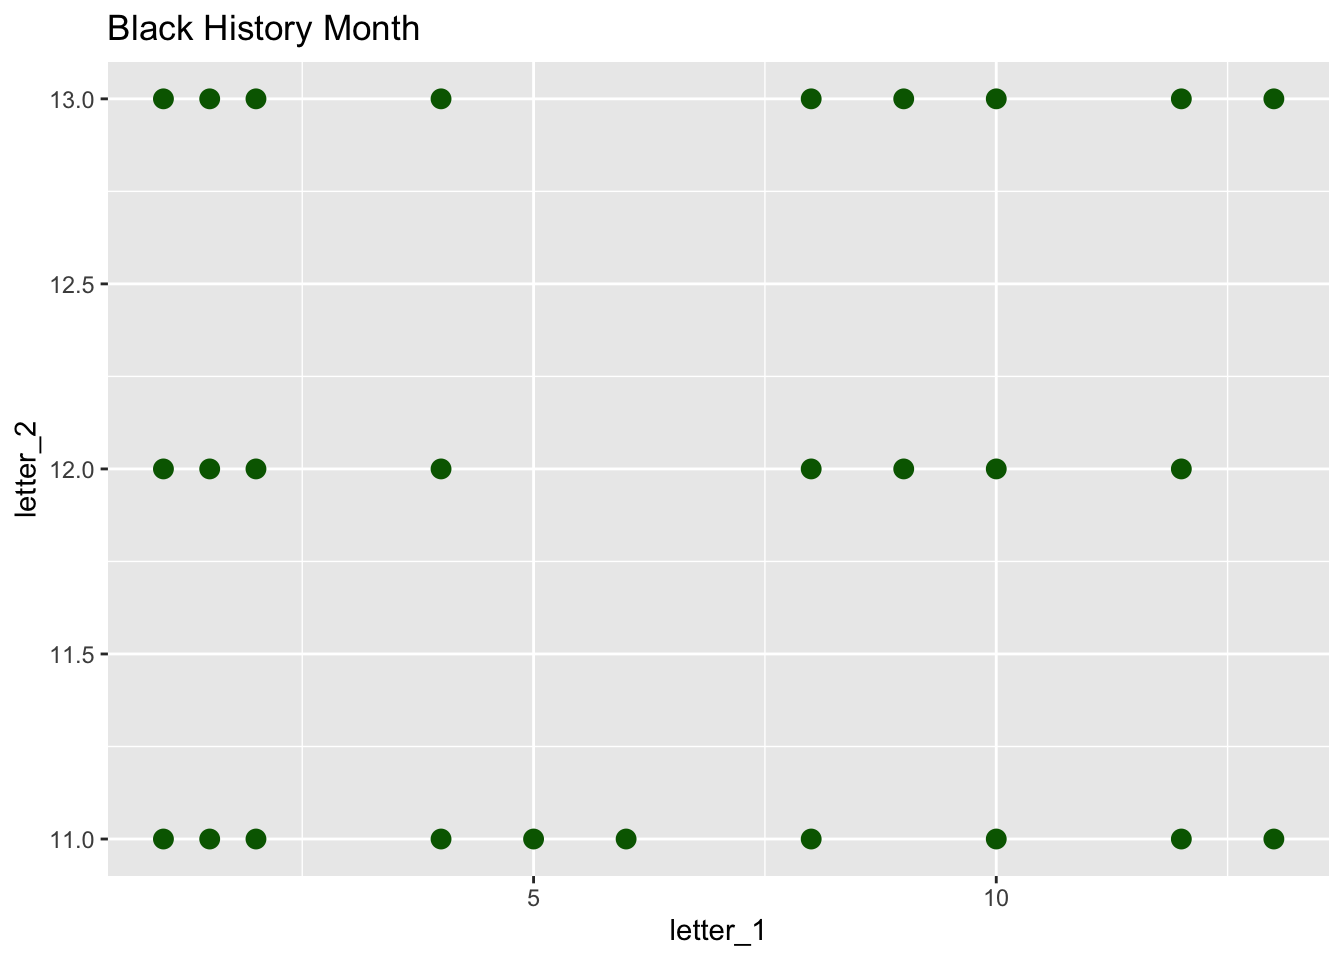
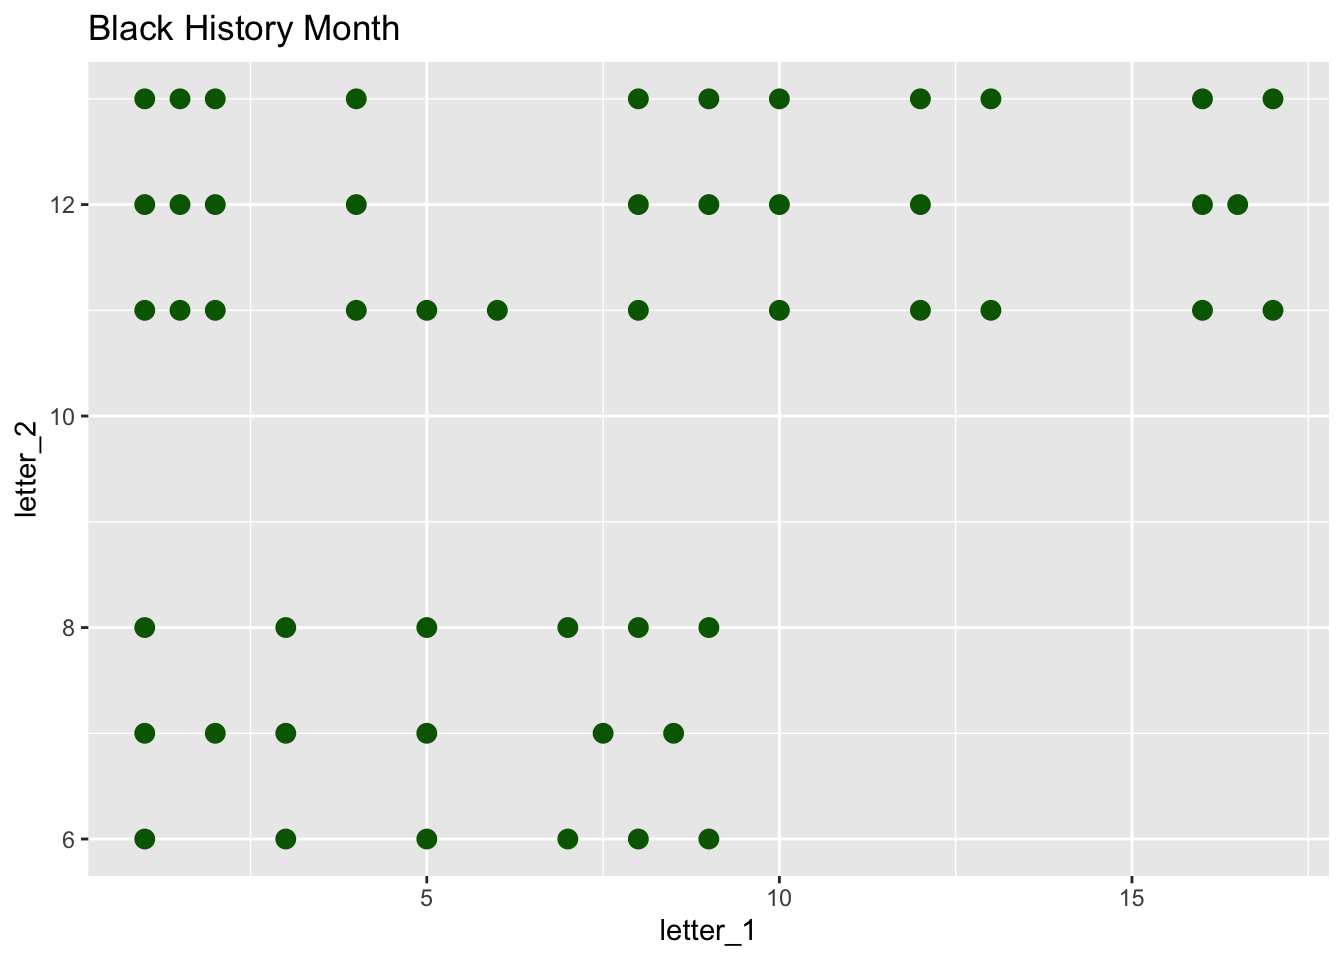
update 2

diff --git a/docs/p02.html b/docs/p02.html
@@ -304,8 +304,9 @@ and of high quality in terms of writing, grammar, presentation, etc.</p>
 </blockquote>
 <pre class="r"><code>library(ggplot2)</code></pre>
 <pre class="r"><code>black_historyp &lt;- data.frame(
-letter_1 = c(1,1,1,2,2,2, 1.5, 1.5, 1.5, 4, 4, 4, 5, 6, 8, 8, 8, 9, 10, 10, 10, 12, 12, 12, 13,13, 9),
-letter_2 = c(13, 12, 11, 13, 12, 11, 12, 13, 11, 11, 12, 13, 11, 11, 11, 12, 13, 13, 13, 12, 11, 11, 12, 13, 13, 11, 12)
+letter_1 = c(1,1,1,2,2,2, 1.5, 1.5, 1.5, 4, 4, 4, 5, 6, 8, 8, 8, 9, 10, 10, 10, 12, 12, 12, 13,13, 9, 16, 16.5, 16, 16, 17, 17, 1, 1, 1, 2, 3, 3, 3, 5, 5, 5, 7, 7, 7.5, 8, 8, 8.5, 9, 9),
+
+letter_2 = c(13, 12, 11, 13, 12, 11, 12, 13, 11, 11, 12, 13, 11, 11, 11, 12, 13, 13, 13, 12, 11, 11, 12, 13, 13, 11, 12, 11, 12, 12, 13, 13, 11, 6, 7, 8, 7, 6, 7, 8, 6, 7, 8, 6, 8, 7, 8, 6, 7, 8, 6)
 )</code></pre>
 <pre class="r"><code>ggplot(black_historyp, aes( x = letter_1, y = letter_2)) +
 geom_point(size = 3, color = &quot;darkgreen&quot;) +
